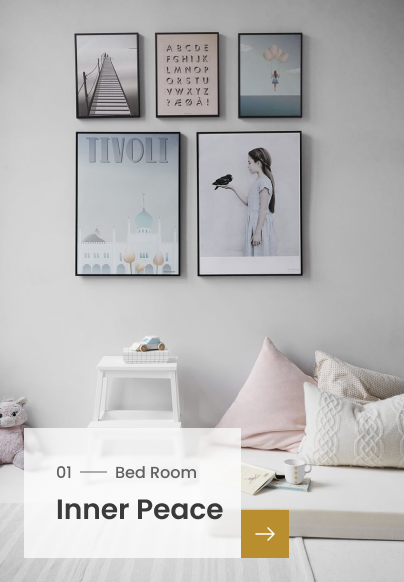
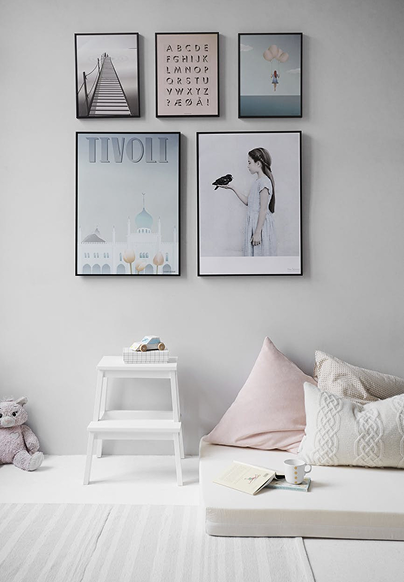
Inspirations section is complete

diff --git a/src/components/Inspirations.jsx b/src/components/Inspirations.jsx
@@ -1,0 +1,102 @@
+import { useState } from "react";
+import { FaArrowRight } from "react-icons/fa";
+import img1 from "../assets/images/inspirations/img1.png";
+import { productImages } from "../utils/images";
+
+export default function Inspirations() {
+  const slides = ["/room2.jpg", "/room3.jpg", "/room4.jpg"];
+  const [index, setIndex] = useState(0);
+
+  const nextSlide = () => {
+    setIndex((prev) => (prev + 1) % slides.length);
+  };
+
+  return (
+    <section className="w-full bg-[#FDF7EE] py-12 md:py-20">
+      <div className="max-w-7xl mx-auto px-4 grid grid-cols-1 md:grid-cols-2 lg:grid-cols-3 gap-10 items-center">
+        {/* Left Section */}
+        <div className="flex flex-col gap-4 lg:col-span-1">
+          <h2 className="text-2xl md:text-4xl font-extrabold text-[#3A3A3A] leading-tight">
+            50+ Beautiful rooms inspiration
+          </h2>
+          <p className="text-[#616161] text-sm md:text-base max-w-sm">
+            Our designer already made a lot of beautiful prototype of rooms that
+            inspire you
+          </p>
+          <button className="bg-[#B88E2F] text-white px-6 py-3 w-fit hover:bg-[#9c7926] transition-all">
+            Explore More
+          </button>
+        </div>
+
+        {/* Middle Static Card */}
+        <div className="overflow-hidden  shadow-md lg:col-span-1 relative">
+          <img
+            src={img1}
+            alt="room inspiration"
+            className="w-full h-[450px] object-cover"
+          />
+          <div className="absolute bottom-4 left-4 flex items-end ">
+            {/* Text Box */}
+            <div className="bg-white/70 backdrop-blur-md p-4 md:p-7  shadow flex flex-col gap-1">
+              <p className="text-xs md:text-sm text-gray-600">01 — Bed Room</p>
+              <h3 className="text-base md:text-lg font-semibold text-gray-800">
+                Inner Peace
+              </h3>
+            </div>
+
+            {/* Arrow Button */}
+            <button className="bg-[#B88E2F] hover:bg-[#9c7926] text-white p-3 md:p-4  transition-all backdrop-blur-md bg-opacity-90 cursor-pointer">
+              ➜
+            </button>
+          </div>
+        </div>
+
+        {/* Carousel Card */}
+        <div className="lg:col-span-1 w-full flex flex-col items-start gap-4 h-100">
+          <div className="relative w-full overflow-hidden  shadow-md">
+            <div
+              className="whitespace-nowrap transition-all duration-500"
+              style={{ transform: `translateX(-${index * 100}%)` }}
+            >
+              {productImages.map((items, i) => (
+                <img
+                  key={i}
+                  src={items.img}
+                  className="inline-block w-full h-[450px] object-cover"
+                />
+              ))}
+            </div>
+
+            {/* Arrow */}
+            <button
+              onClick={nextSlide}
+              className="absolute top-1/2 right-4 -translate-y-1/2 bg-white text-[#B88E2F] p-3 border border-[#B88E2F] rounded-full hover:bg-[#533f0f] transition-all"
+            >
+              <FaArrowRight size={15} />
+            </button>
+          </div>
+
+          {/* Dots */}
+          <div className="flex items-center gap-3 mt-2">
+            {slides.map((_, i) => (
+              <div
+                key={i}
+                className={`flex items-center justify-center rounded-full
+        ${
+          i === index
+            ? "w-4 h-4 border border-[#B88E2F]"
+            : "w-2.5 h-2.5 bg-gray-300"
+        }
+      `}
+              >
+                {i === index && (
+                  <div className="w-2 h-2 bg-[#B88E2F] rounded-full"></div>
+                )}
+              </div>
+            ))}
+          </div>
+        </div>
+      </div>
+    </section>
+  );
+}

diff --git a/src/components/Products.jsx b/src/components/Products.jsx
@@ -62,6 +62,20 @@ const Products = () => {
           </div>
         ))}
       </div>
+      <div className="flex justify-center items-center w-full mt-5 p-4">
+        <button
+          class="border border-[#B88E2F] 
+         text-[#B88E2F] 
+         cursor-pointer 
+         transition-all
+         px-6 py-2 
+         sm:px-8 sm:py-3 
+         md:px-10 md:py-3.5
+         hover:bg-[#B88E2F] hover:text-white"
+        >
+          See More
+        </button>
+      </div>
     </section>
   );
 };

diff --git a/src/App.jsx b/src/App.jsx
@@ -1,5 +1,6 @@
 import Browser from "./components/Browser";
 import Hero from "./components/Hero";
+import Inspirations from "./components/Inspirations";
 import Nav from "./components/Nav";
 import Products from "./components/Products";
 
@@ -10,6 +11,7 @@ const App = () => {
       <Hero />
       <Browser />
       <Products />
+      <Inspirations />
     </>
   );
 };
